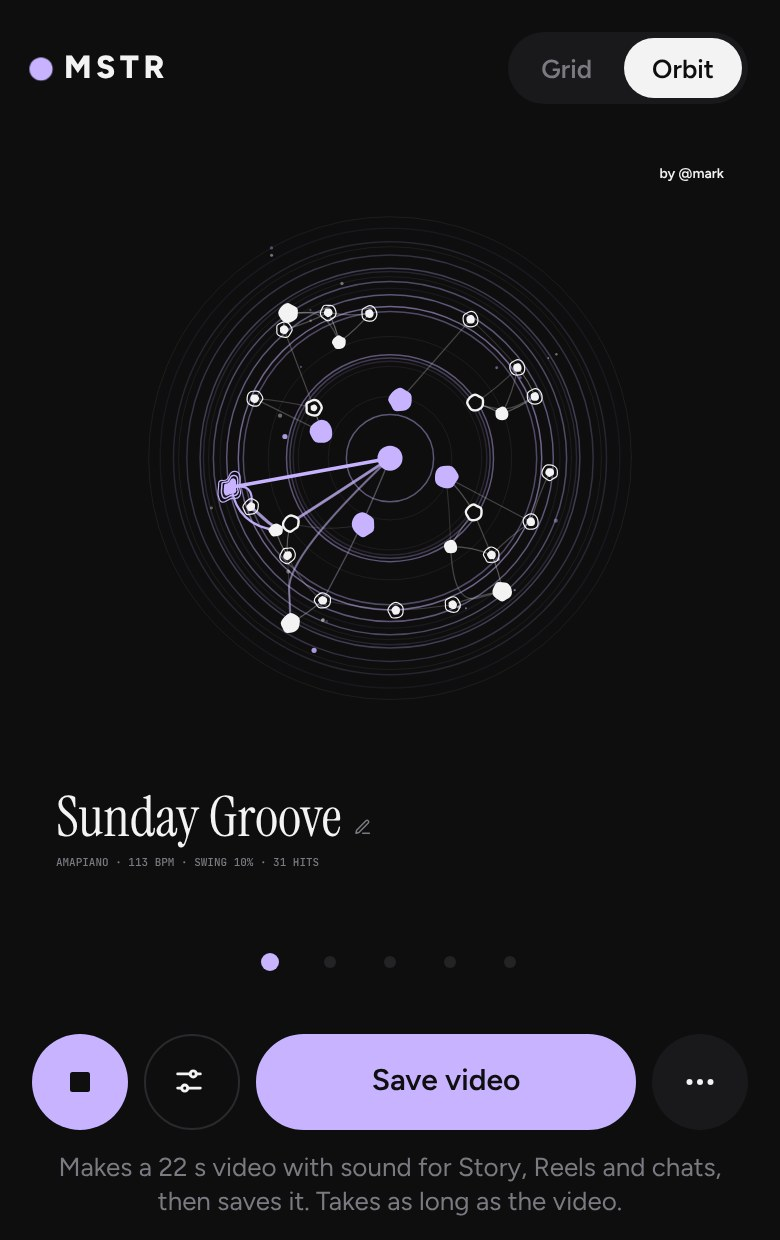
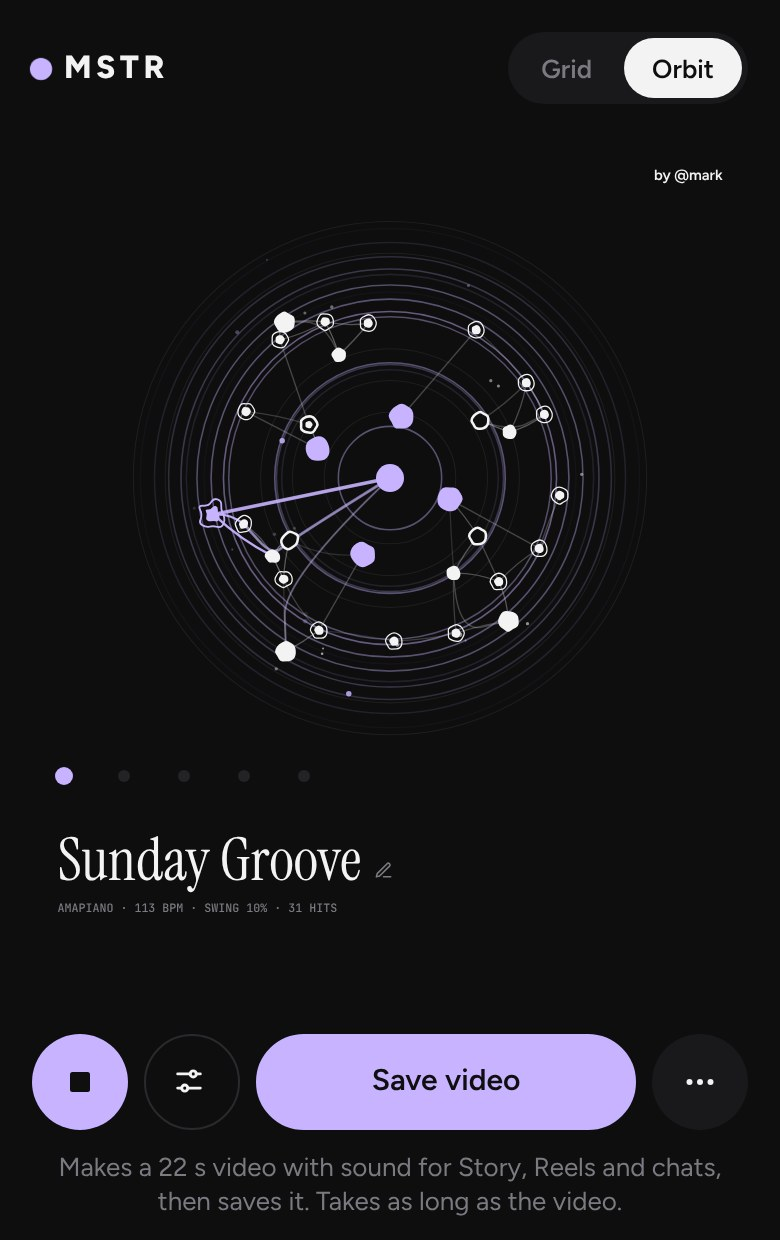
MSTR: sync app with swipeable Orbit colour
App copy from mstr main (swipe over the Orbit changes the colour, dots
above the title), Orbit preview re-shot.

Claude-Session: https://claude.ai/code/session_01WCtGHVGad15G69qQznzFsj

diff --git a/mstr/app/index.html b/mstr/app/index.html
@@ -261,7 +261,7 @@ input[type=range]::-moz-range-thumb{width:20px;height:20px;border-radius:50%;bac
 .vpick .opt.off{color:var(--mute);padding:0 13px}
 
 /* Molekül-Ansicht: ersetzt Raster und Taktzeile, füllt die Höhe bis zum Transport */
-.mol{display:block;width:100%;flex:1 1 0;min-height:220px;border-radius:24px;cursor:pointer;touch-action:manipulation;-webkit-tap-highlight-color:transparent}
+.mol{display:block;width:100%;flex:1 1 0;min-height:220px;border-radius:24px;cursor:pointer;touch-action:pan-y;-webkit-tap-highlight-color:transparent}
 .mol:focus-visible{outline:2px solid var(--accent);outline-offset:4px}
 .app.molecule .tracks,.app.molecule .beatrow{display:none}
 /* Umschalter oben: Grid zum Bauen, Orbit zum Zusehen und Teilen */
@@ -271,7 +271,8 @@ input[type=range]::-moz-range-thumb{width:20px;height:20px;border-radius:50%;bac
 .cardfoot{display:flex;gap:8px;align-items:center}
 /* Farbwahl im Orbit: fünf Punkte, der gewählte trägt einen Ring; die Orbit-Farbe färbt dort auch den Video-Knopf */
 /* Zurückhaltend wie die App: kleine graue Punkte, nur der gewählte trägt seine Farbe; die Tipp-Fläche bleibt groß */
-.hue{display:flex;justify-content:center;gap:2px;padding:0 0 6px}
+.hue{display:flex;justify-content:flex-start;gap:2px;height:0;position:relative;z-index:1}
+.app.molecule .cardfoot{margin-top:6px}
 .hue button{width:28px;height:24px;border:0;padding:0;background:none;cursor:pointer;display:grid;place-items:center}
 .hue button::after{content:"";width:6px;height:6px;border-radius:50%;background:var(--off);transition:transform .15s,background .15s}
 .hue button[aria-checked="true"]::after{background:var(--c);transform:scale(1.5)}
@@ -310,7 +311,7 @@ input[type=range]::-moz-range-thumb{width:20px;height:20px;border-radius:50%;bac
     <p class="sub" id="sub"></p>
   </div>
   <main class="tracks" id="tracks" aria-label="Tracks"></main>
-  <canvas class="mol" id="mol" hidden aria-label="Your beat as an orbit. Tap the ring to play or stop, tap the title to name it" role="button" tabindex="0"></canvas>
+  <canvas class="mol" id="mol" hidden aria-label="Your beat as an orbit. Tap the ring to play or stop, tap the title to name it, swipe sideways to change the colour" role="button" tabindex="0"></canvas>
   <div class="hue" id="hue" hidden role="radiogroup" aria-label="Orbit colour"></div>
   <div class="cardfoot" id="cardfoot" hidden><button type="button" class="pill wide go" id="shCardBtn">Share video</button><button type="button" class="ib" id="more" aria-haspopup="dialog" aria-label="Link and WAV loop" title="Link and WAV loop"><svg viewBox="0 0 24 24" aria-hidden="true"><circle cx="5" cy="12" r="2" fill="currentColor"/><circle cx="12" cy="12" r="2" fill="currentColor"/><circle cx="19" cy="12" r="2" fill="currentColor"/></svg></button></div>
   <p class="shnote" id="shCardT" hidden></p>
@@ -1569,8 +1570,11 @@ var CARD=(function(){
   function forceDark(){document.documentElement.setAttribute('data-theme','dark');var m=document.querySelector('meta[name="theme-color"]');if(m)m.setAttribute('content','#0E0E0F');}
   function molModel(){var k=shareCode();if(k===molKey&&molS)return;molKey=k;var m=cardModel();
     if(molS)molS.m=m;else{molS=new CARD.Scene(m);molS.clip=false;molS.act=function(r){return audible(r)&&!drop;};}}
+  /* Die Farbpunkte sitzen im Bild direkt über dem Titel, bündig mit ihm (Titelstreifen = untere 130 Einheiten) */
+  var hueY=0;
   function molSize(){var b=molC.getBoundingClientRect(),d=Math.min(2,window.devicePixelRatio||1),w=Math.round(b.width*d),h=Math.round(b.height*d);
-    if(w&&h&&(molC.width!==w||molC.height!==h)){molC.width=w;molC.height=h;}}
+    if(w&&h&&(molC.width!==w||molC.height!==h)){molC.width=w;molC.height=h;}
+    var sc=Math.min(b.width/540,b.height/760),y=Math.round(130*sc+48);if(y!==hueY){hueY=y;hueRow.style.transform='translateY(-'+y+'px)';hueRow.style.paddingLeft=Math.round(24*sc-11)+'px';}}
   /* Die Schleife läuft, solange die Ansicht an ist. Ein Fehler beim Zeichnen bricht sie nicht ab, und molGo startet sie
      immer frisch, damit ein liegen gebliebener Frame (etwa nach dem Sperren des Handys) sie nicht blockiert */
   function molDraw(){molRaf=0;if(!molOn)return;molLast=performance.now();
@@ -1592,7 +1596,13 @@ var CARD=(function(){
   vGrid.addEventListener('click',function(){molSet(false);});vCard.addEventListener('click',function(){molSet(true);});
   /* Unterer Streifen (Titel und Zeile) öffnet den Namen, der Rest spielt oder stoppt */
   function molTitleHit(e){var r=molC.getBoundingClientRect(),sc=Math.min(r.width/540,r.height/760);return e.clientY-r.top>r.height-130*sc;}
-  molC.addEventListener('click',function(e){if(busyC)return;if(molTitleHit(e))nameSheet();else setPlay(!playing);});
+  /* Wischen über den Orbit (links/rechts) schaltet die Farbe weiter, ein Tipp bleibt ein Tipp: erst ab 40 px quer, und mehr quer als längs */
+  var swX=0,swY=0,swOn=false,swiped=false,HK=Object.keys(CARD.HUES);
+  function hueStep(d){setHue(HK[(HK.indexOf(col)+d+HK.length)%HK.length]);}
+  molC.addEventListener('pointerdown',function(e){swX=e.clientX;swY=e.clientY;swOn=true;swiped=false;});
+  molC.addEventListener('pointermove',function(e){if(!swOn||swiped||busyC)return;var dx=e.clientX-swX,dy=e.clientY-swY;if(Math.abs(dx)>40&&Math.abs(dx)>Math.abs(dy)*1.5){swiped=true;hueStep(dx<0?1:-1);}});
+  molC.addEventListener('pointerup',function(){swOn=false;});molC.addEventListener('pointercancel',function(){swOn=false;swiped=false;});
+  molC.addEventListener('click',function(e){if(swiped){swiped=false;return;}if(busyC)return;if(molTitleHit(e))nameSheet();else setPlay(!playing);});
   molC.addEventListener('keydown',function(e){if(e.key==='Enter'||e.key===' '){e.preventDefault();if(!busyC)nameSheet();}});
   document.addEventListener('visibilitychange',function(){if(!document.hidden)molGo();});window.addEventListener('pageshow',molGo);
   if(S.view==='mol')molSet(true);

diff --git a/mstr/index.html b/mstr/index.html
@@ -111,7 +111,7 @@ details a,.ask a{color:var(--accent-text);font-weight:700}
     <li><button type="button" role="tab" aria-selected="false" data-img="vorschau-1.jpg" data-alt="The grid playing the Amapiano template, Grid | Orbit switch at the top, Play, Effects, Drop and Tempo at the bottom"><b>2</b><strong>Build</strong><span>Tap steps, long-press for a different sound, set tempo and swing.</span></button></li>
     <li><button type="button" role="tab" aria-selected="false" data-img="vorschau-4.jpg" data-alt="The Room and Echo effects switched on, with sliders"><b>3</b><strong>Effects</strong><span>Switch on six effects and hit the drop.</span></button></li>
     <li><button type="button" role="tab" aria-selected="false" data-img="vorschau-3.jpg" data-alt="The Mic track with the record button"><b>4</b><strong>Mic</strong><span>Record your own sound on the Mic track.</span></button></li>
-    <li><button type="button" role="tab" aria-selected="false" data-img="vorschau-5.jpg" data-alt="The Orbit view: the molecule spins to the beat Sunday Groove by @mark, with five colour dots, Play, Effects, Share video and the menu for link and WAV below"><b>5</b><strong>Share</strong><span>In Orbit your beat spins as a molecule in one of five colours. Share it as a video with the link to your beat, or send a WAV loop.</span></button></li>
+    <li><button type="button" role="tab" aria-selected="false" data-img="vorschau-5.jpg" data-alt="The Orbit view: the molecule spins to the beat Sunday Groove by @mark, with five colour dots above the title, Play, Effects, Share video and the menu for link and WAV below"><b>5</b><strong>Share</strong><span>In Orbit your beat spins as a molecule in one of five colours. Share it as a video with the link to your beat, or send a WAV loop.</span></button></li>
    </ol>
    <p class="cap" id="cap">16 templates to start from, or begin with an empty grid.</p>
   </div>
